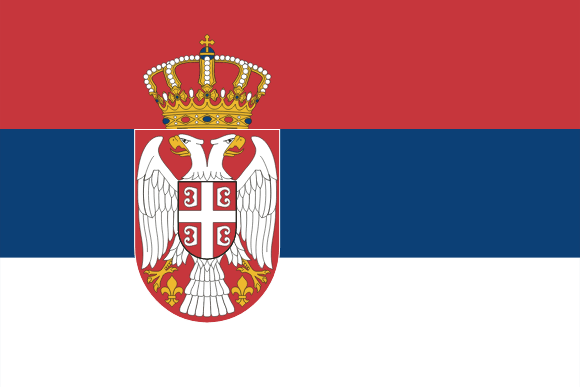
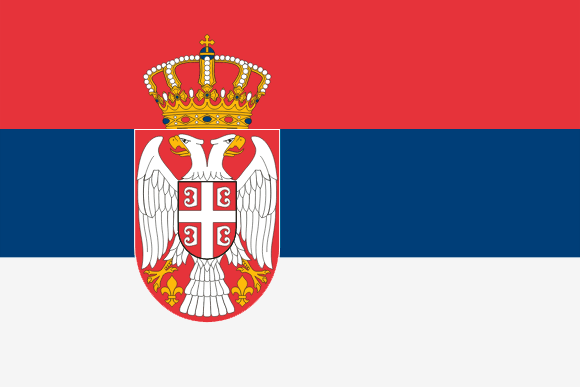
подредактировал флаги

diff --git a/src/views/pages/HomePage.vue b/src/views/pages/HomePage.vue
@@ -4,39 +4,6 @@
 
     <SliderCountryWines />
     <BtnLinkAllCountry />
-    можно сделать, все вина перейдя на страницу будет сортировка по
-    красным,белым, розовым, выбрать страну
-    <!-- <globalComponentBtnLinkAllCountry /> -->
-    <!-- Потом делать -->
-
-    <!-- <h1>слайдер по сахару</h1>
-    <carousel :per-page="3">
-      <slide> Сухое </slide>
-      <slide> Полусухое </slide>
-      <slide> Полусладкое </slide>
-      <slide> Сладкое </slide>
-    </carousel>
-    <h1>слайдер по цвету</h1>
-    <carousel :per-page="3">
-      <slide>
-        <img src="../assets/color-wine-slider/red-wine.jpg" alt="" class="fl" />
-      </slide>
-      <slide>
-        <img
-          src="../assets/color-wine-slider/white-wine.jpg"
-          alt=""
-          class="fl"
-        />
-      </slide>
-      <slide>
-        <img
-          src="../assets/color-wine-slider/rose-wine.jpg"
-          alt=""
-          class="fl"
-        />
-      </slide>
-    </carousel> -->
-    <!-- {{ t }} -->
   </div>
 </template>
 
